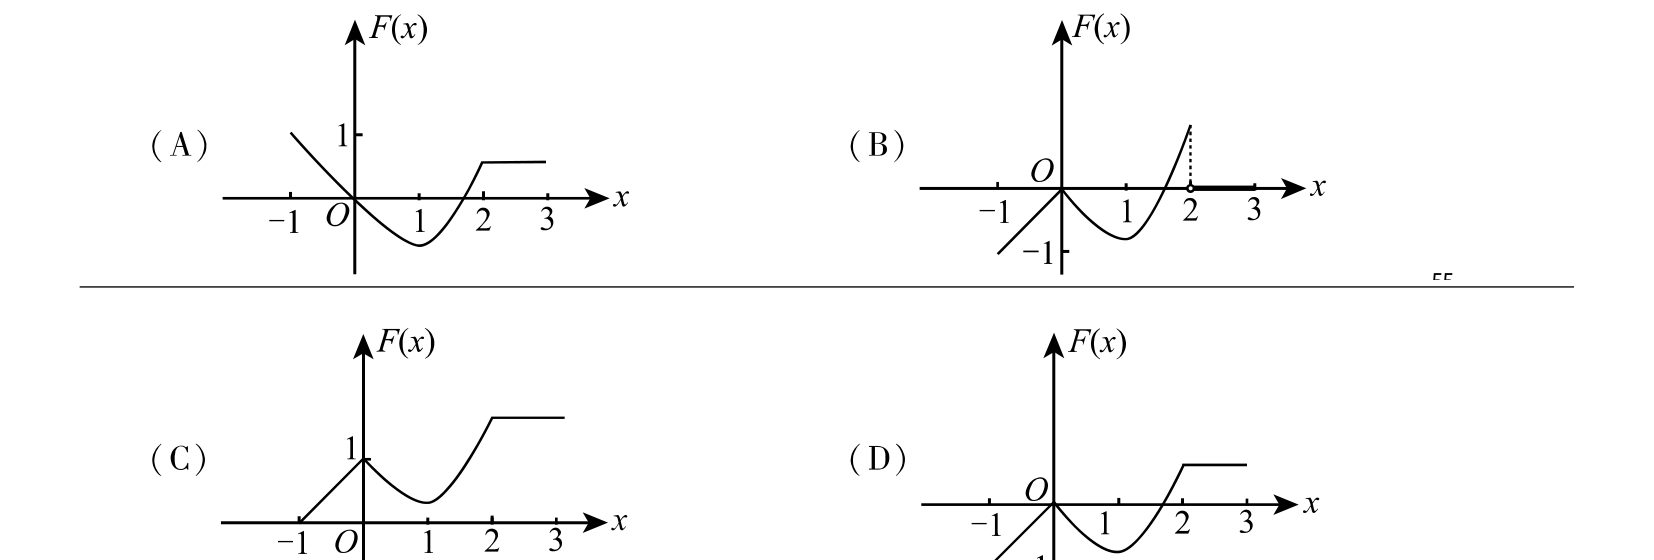
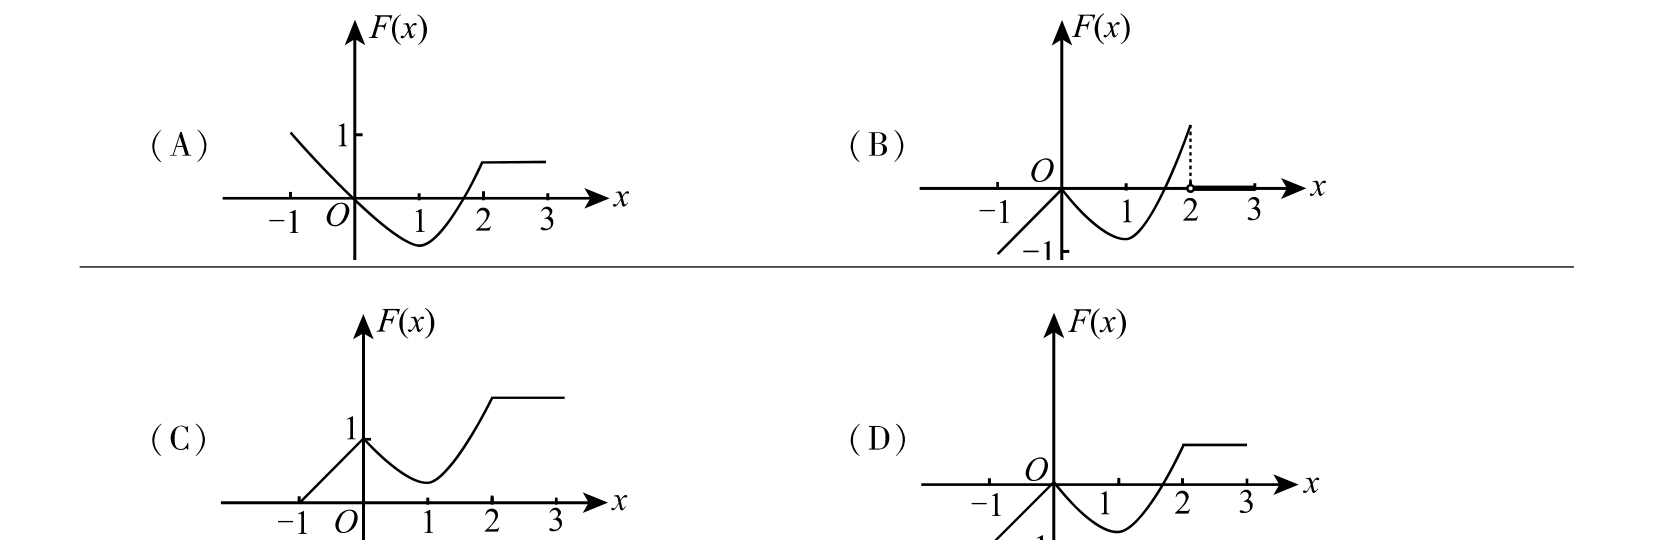
真题4张配图精准重裁+cy-01 16题bounds精修

diff --git a/pwa/sw.js b/pwa/sw.js
@@ -2,7 +2,7 @@
  * 预缓存全部页面/样式/脚本/笔记数据/KaTeX/图标，安装后完全离线可用。
  * 升级笔记数据或代码后：改 CACHE_VER 版本号即可让客户端自动换新缓存。
  */
-const CACHE_VER = 'mathcards-0d19cbd8f5';
+const CACHE_VER = 'mathcards-f8b6588feb';
 
 const PRECACHE = [
     'index.html',
